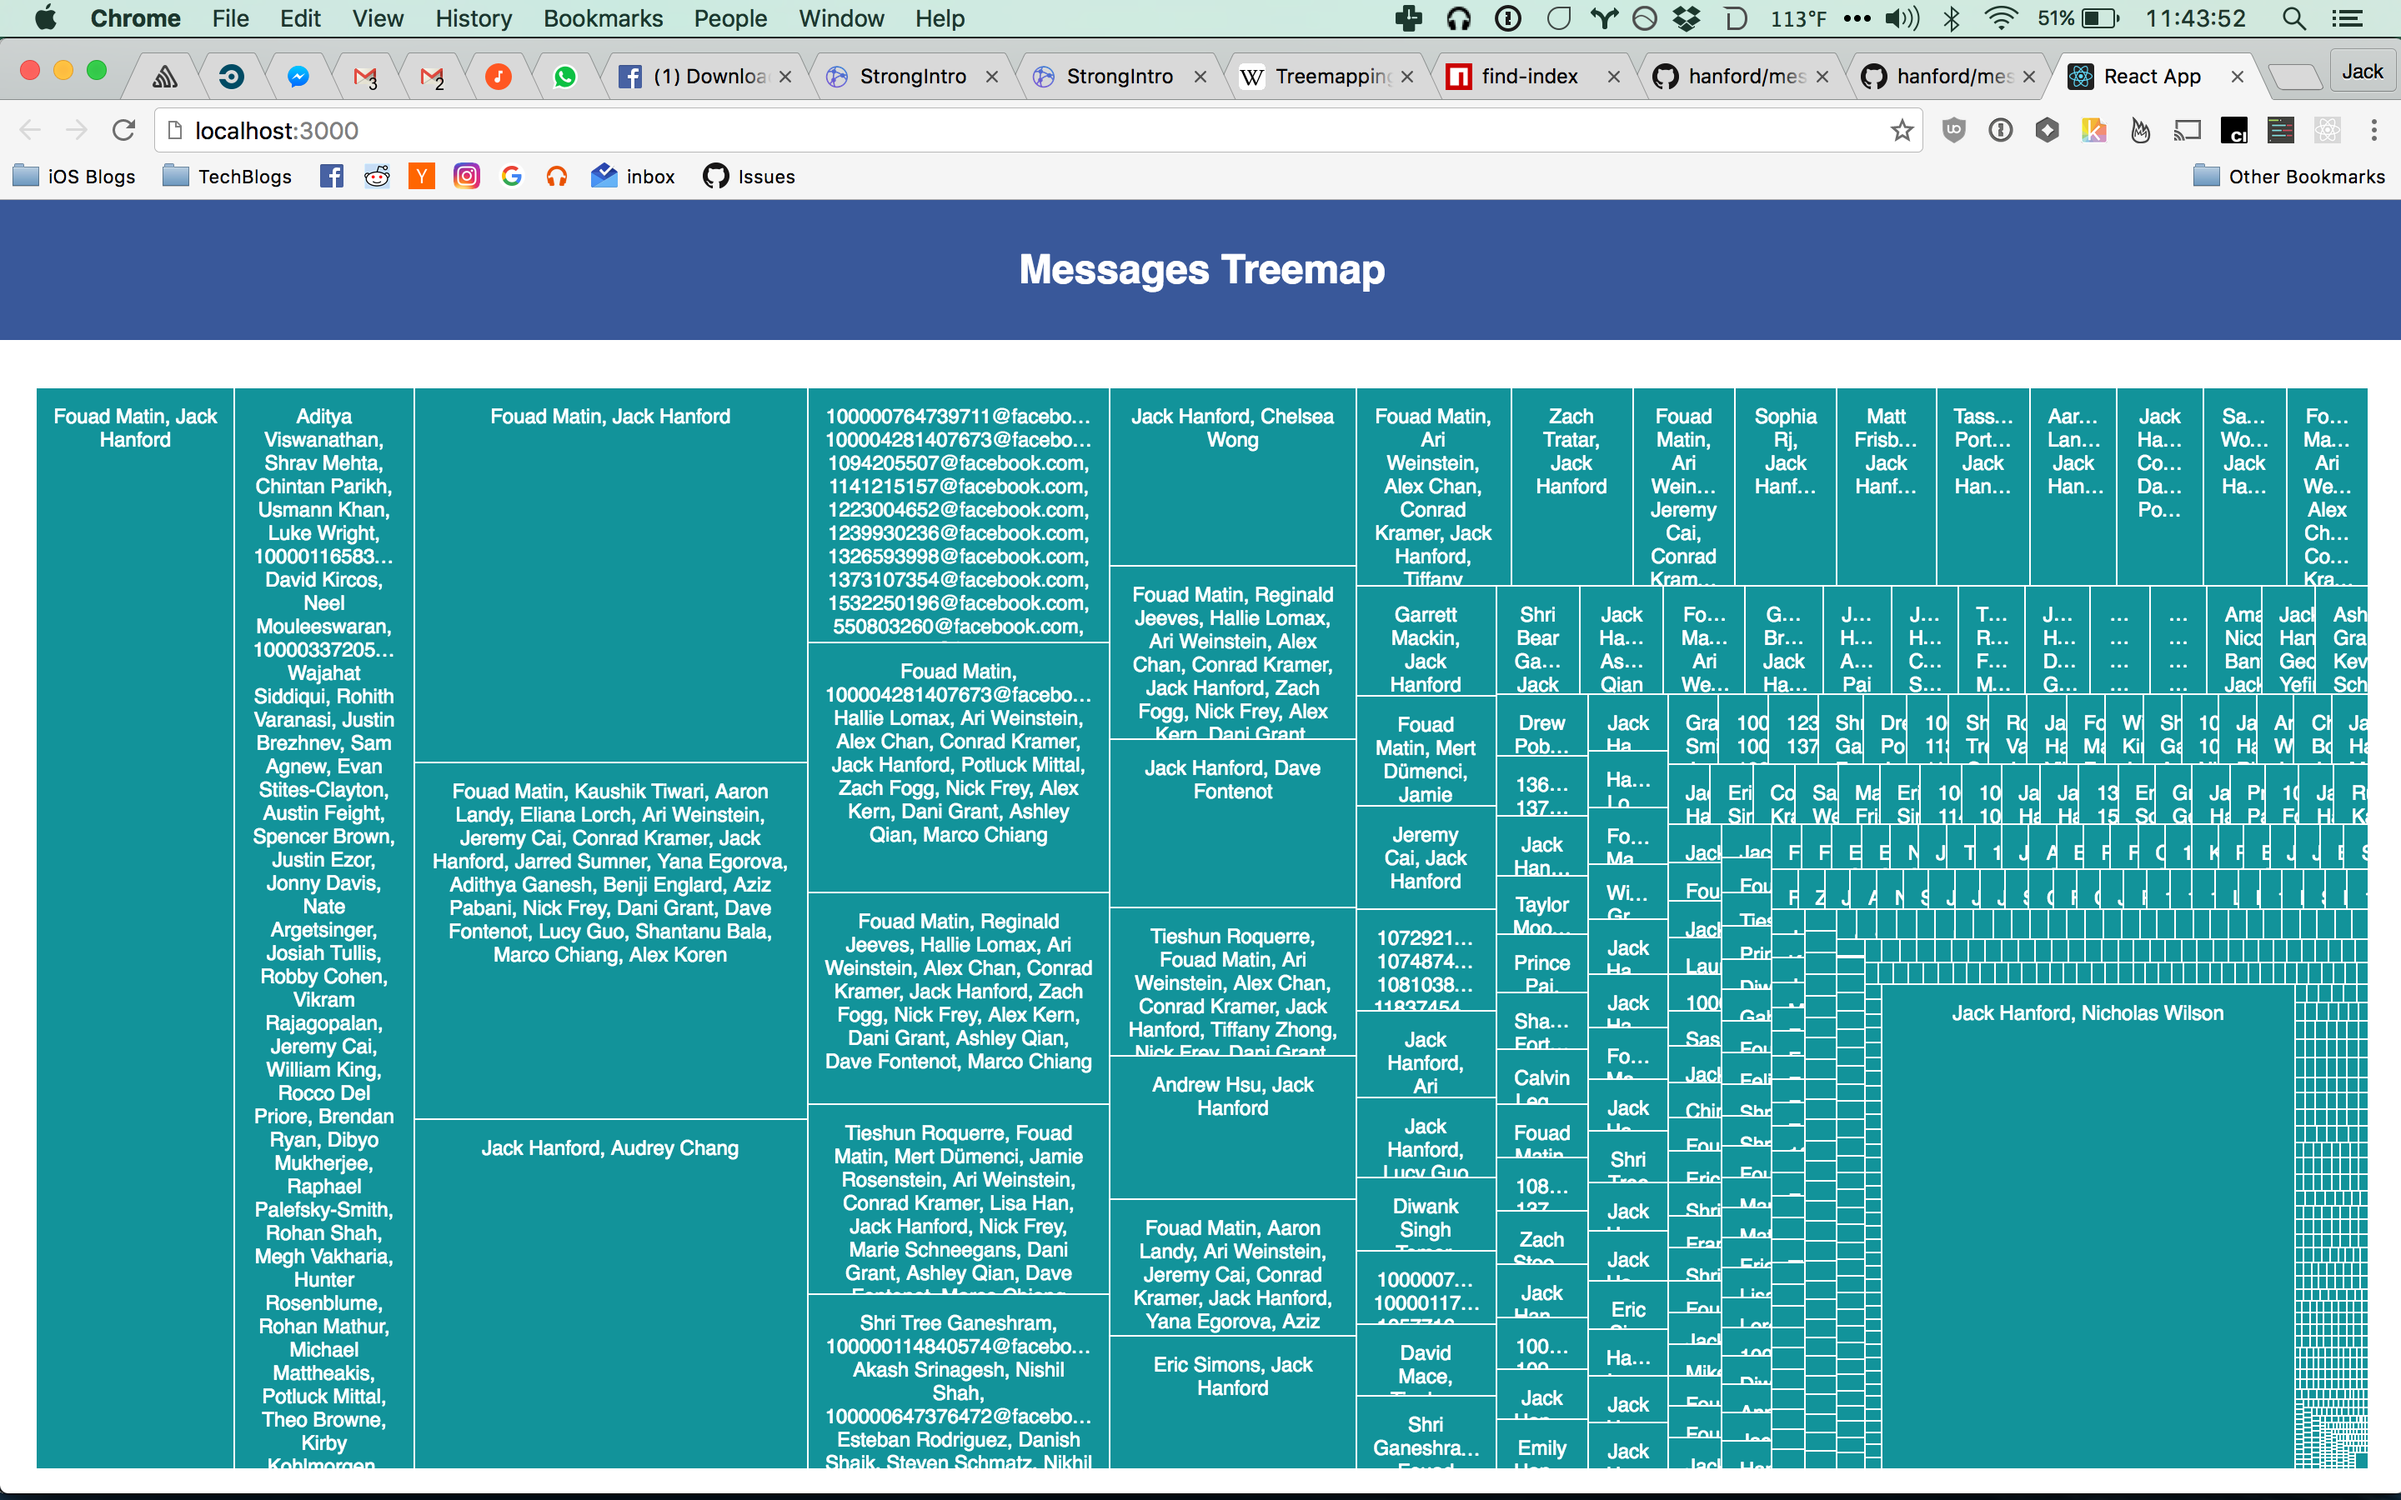
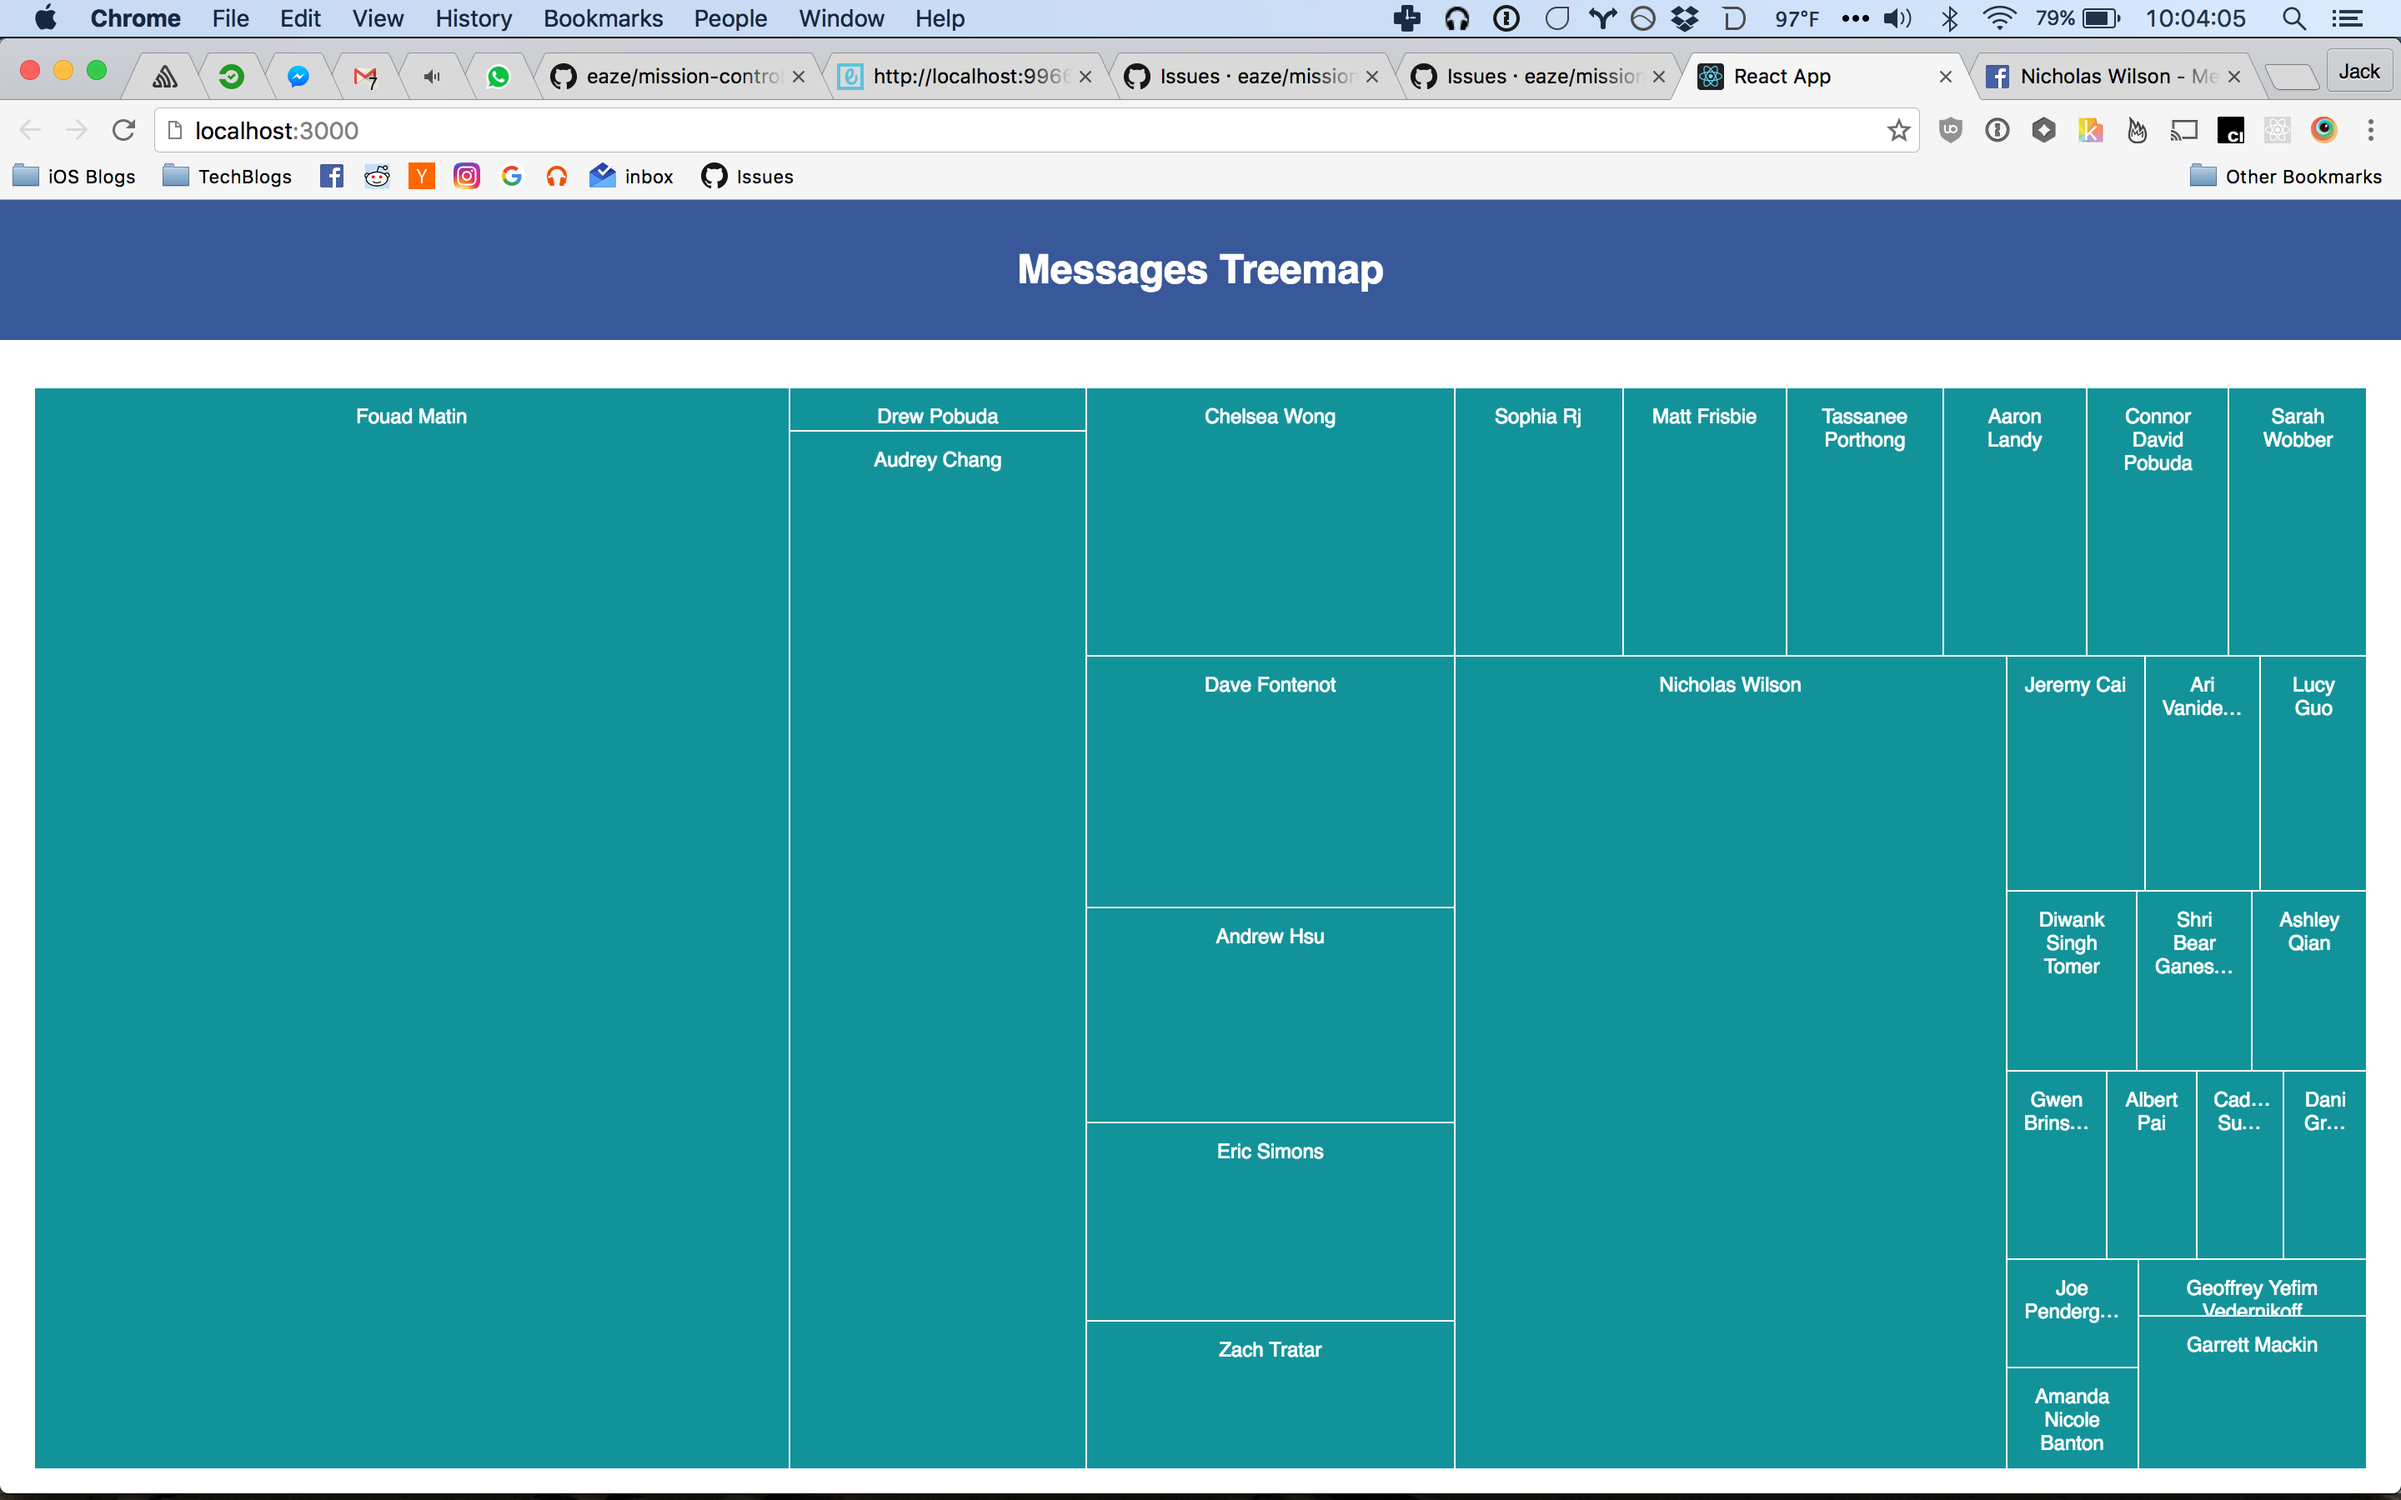
wrap up front end

diff --git a/src/App.js b/src/App.js
@@ -1,5 +1,6 @@
 import React, { Component } from 'react'
 import request from 'xhr-request'
+import sortOn from 'sort-on'
 
 import './App.css'
 
@@ -15,7 +16,32 @@ export default class App extends Component {
   }
 
   componentWillMount () {
-    request('../messages.json', { json: true }, (err, data) => this.setState({ data }))
+    request('../messages.json', { json: true }, (err, data) => {
+      data = data
+        .filter(d => d.title.split(', ').length === 2)
+        .filter(Boolean)
+
+      data = data
+        .map(function (t) {
+          let usernames = t.title
+            .split(', ')
+
+          let indexOfUser = usernames
+            .findIndex((element, index, array) => element === 'Jack Hanford')
+
+          usernames.splice(indexOfUser, 1)
+
+          t.title = usernames.toString()
+
+          return t
+        })
+
+      data = sortOn(data, '-size')
+
+      data = data.splice(0, 30)
+
+      this.setState({ data })
+    })
   }
 
   render() {

diff --git a/src/components/message-treemap/index.js b/src/components/message-treemap/index.js
@@ -5,9 +5,11 @@ import sortOn from 'sort-on'
 export default ({ data }) => {
   if (!data.length) return null
 
+  data = sortOn(data, '-size')
+
   const treeMapData = {
     title: '',
-    children: sortOn(data, '-size')
+    children: data
   }
 
   return (
